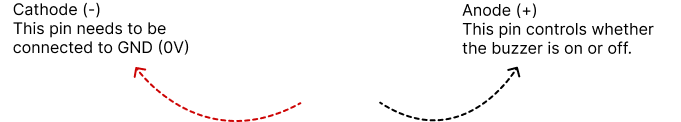
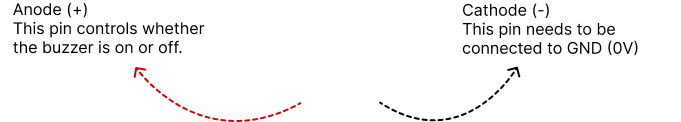
fix: restrict DevPanel to homepage, reset onboarding on re-enable, update buzzer image
Made-with: Cursor

diff --git a/big-arduino-app/src/components/shared/DevPanel.tsx b/big-arduino-app/src/components/shared/DevPanel.tsx
@@ -1,13 +1,30 @@
-import { useState } from 'react';
+import { useState, useRef, useEffect } from 'react';
+import { useLocation } from 'react-router-dom';
 import { Wrench } from 'lucide-react';
 import { useDevStore, ALL_KEYS, FEATURE_LABELS, type FeatureKey } from '../../store/devStore';
+import { useOnboardingStore } from '../../store/onboardingStore';
 import './DevPanel.css';
 
 export function DevPanel() {
+  const { pathname } = useLocation();
+  const isHomePage = pathname === '/' || pathname === '';
+
   const [open, setOpen] = useState(false);
 
   const store = useDevStore();
   const allOn = ALL_KEYS.every((k) => store[k]);
+
+  // When globalOnboarding is toggled from off → on, reset the completion state
+  const prevGlobalOnboarding = useRef(store.globalOnboarding);
+  useEffect(() => {
+    const cur = store.globalOnboarding;
+    if (!prevGlobalOnboarding.current && cur) {
+      useOnboardingStore.getState().resetOnboarding();
+    }
+    prevGlobalOnboarding.current = cur;
+  }, [store.globalOnboarding]);
+
+  if (!isHomePage) return null;
 
   return (
     <>
